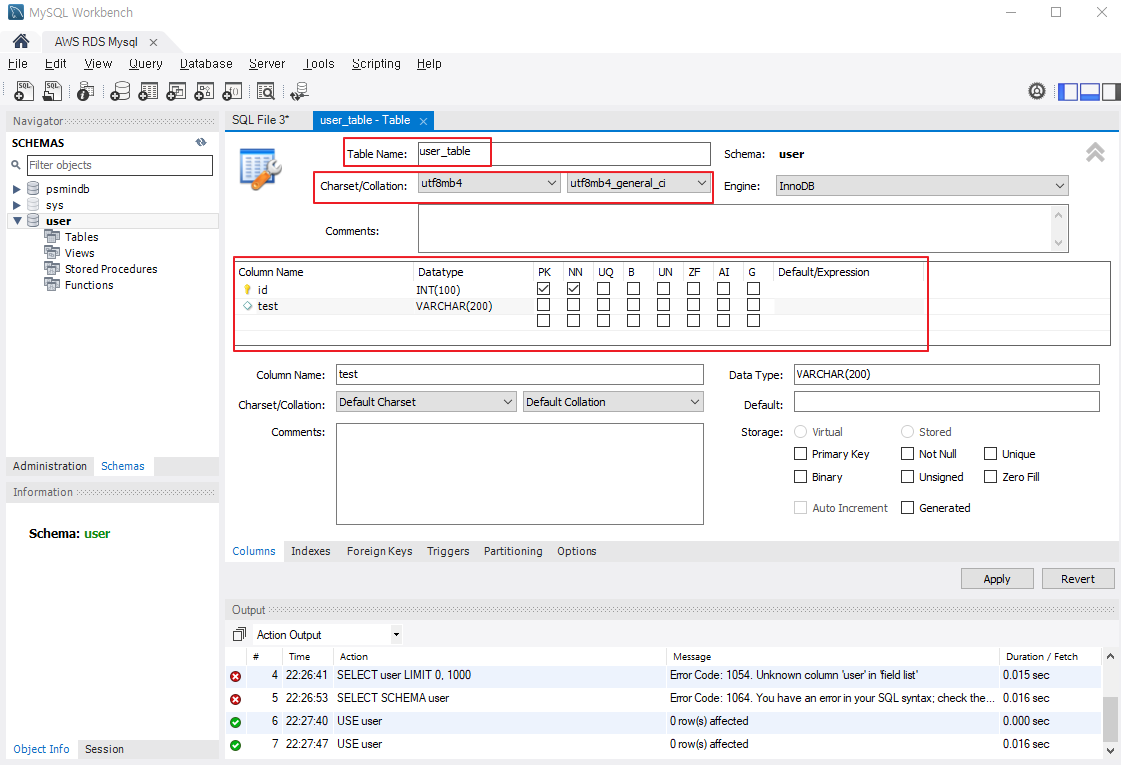
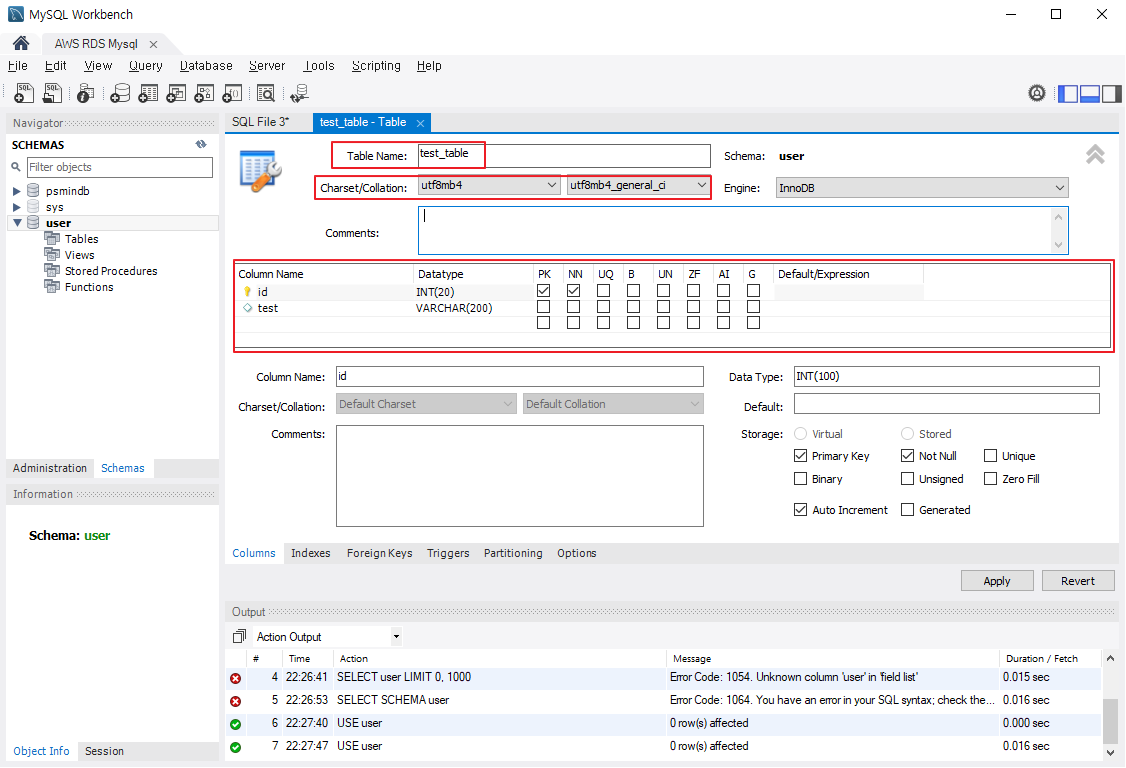
Mysql Workbench post

diff --git a/_posts/2023-01-01-db-conn.md b/_posts/2023-01-01-db-conn.md
@@ -1,12 +1,12 @@
 ---
-title: mysql 모듈들
+title: Mysql Workbench
 author: Psmin
 data: 2022-01-01 14:35:21 +0900
 categories: [Nodejs]
-tags: [mysql, mysql2]
+tags: [Mysql Workbench]
 ---
 
-# Mysql 모듈들에 대해 알아보자.
+# Mysql Workbench에 대해 알아보자.
 
 ---
 
@@ -62,7 +62,7 @@ AWS RDS의 정보는 대시보드에서 확인할 수 있습니다.
 2. 테이블 생성
 
    - 테이블을 생성할 스키마를 선택합니다.  
-     (좌측 SCHEMAS에서 해당 스키마를 더블 클릭하거나 sql 쿼리에 `USE database_name`을 입력하면 됩니다.)
+     (좌측 SCHEMAS에서 해당 스키마를 더블 클릭하거나 sql 쿼리에 `USE [database_name]`을 입력하면 됩니다.)
 
      > 참고 : 쿼리 실행 단축기는 ctrl + enter 입니다.
 
@@ -78,18 +78,13 @@ AWS RDS의 정보는 대시보드에서 확인할 수 있습니다.
      - Column Name, dataType, option 등 설정
 
    ![new-table-02](/assets/img/new-table-02.png){: .w-80 .normal}
+   </br>
 
----
+   - 좌측에 테이블이 생성된 것을 볼 수 있고, `select * from [table_name];`을 실행하면 생성된 테이블을 조회할 수 있습니다.
 
-## mysql 모듈
+   ![new-table-03](/assets/img/new-table-03.png){: .w-80 .normal}
 
----
+{: .prompt-info}
 
-## mysql2 모듈
-
----
-
-## 참조
-
-- <https://github.com/mysqljs/mysql>
-- <https://opentutorials.org/course/3347/21185>
+> AWS RDS를 Mysql Workbench에 연결하고 테이블까지 만들어 보았습니다.  
+> 다음 포스트에선 서버에 REST API를 만들어 CRUD를 구현해보겠습니다.
